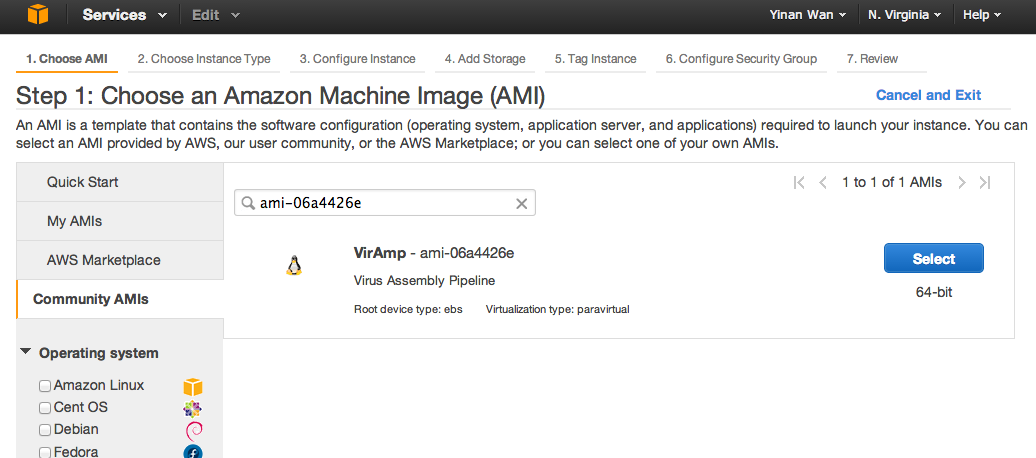
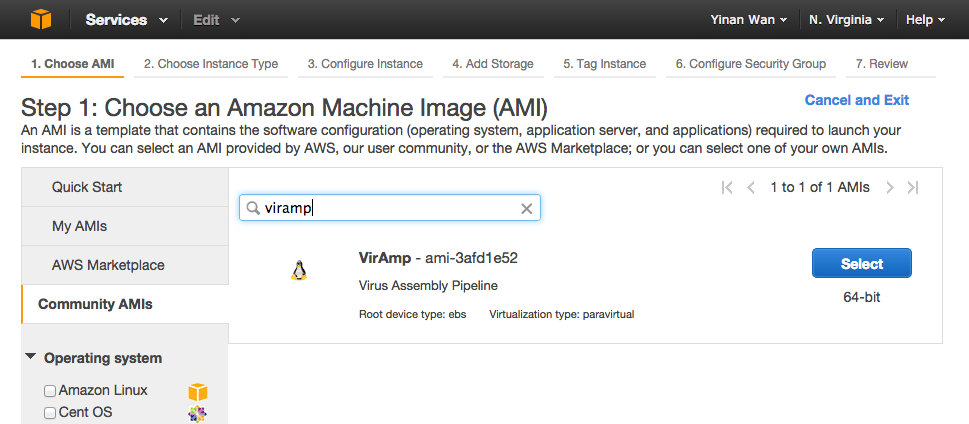
doc updated

diff --git a/docs/ec2_import.rst b/docs/ec2_import.rst
@@ -14,7 +14,7 @@ Click the blue button 'Launch Instance' at the mid-level of the page.
 Step-1: Choosing the instance
 -----------------------------
 
-Click Community AMIs tab at mid-left and search the VirAmp AMI-id: "ami-06a4426e", or you can simply search "viramp"
+Click Community AMIs tab at mid-left and simply search "viramp"
 
 .. image:: viramp-doc/search-ami.png
 

diff --git a/docs/index.rst b/docs/index.rst
@@ -6,7 +6,7 @@
 Welcome to VirAmp's documentation!
 ==================================
 
-VIRamp is a galaxy-based system for fast virus genome assembly and variation discovery.
+VirAmp is a galaxy-based system for fast virus genome assembly and variation discovery.
 
 Following is an overview of how VIRamp platform works:
 
